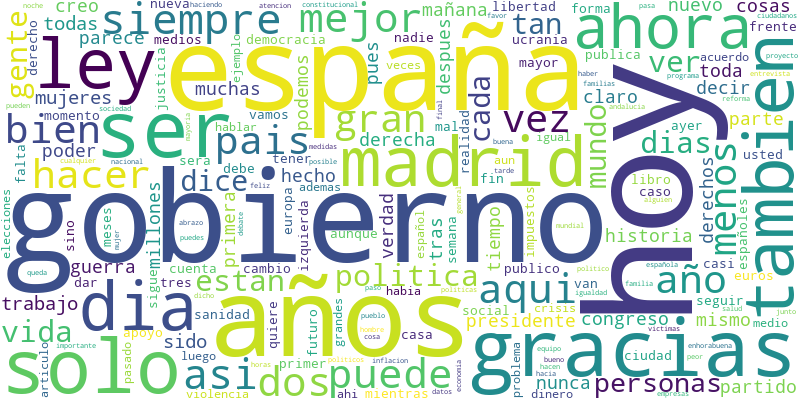
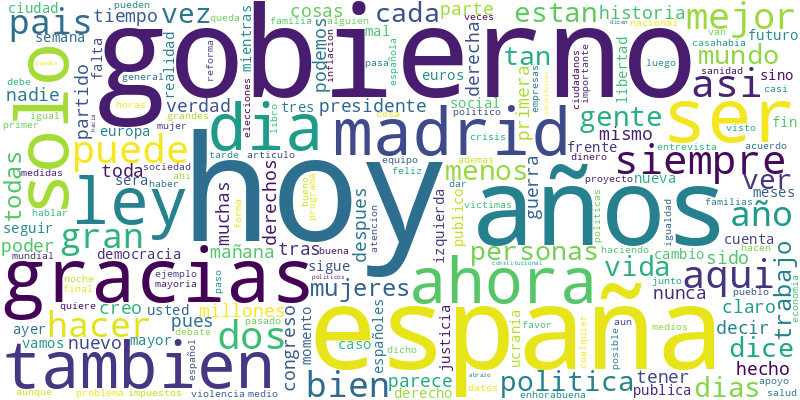
feat: add data loading and preprocessing functions, enhance class distribution analysis, and include visualizations

diff --git a/main.py b/main.py
@@ -21,9 +21,10 @@ from collections import Counter
 import matplotlib.pyplot as plt
 from wordcloud import WordCloud
 from nltk.corpus import stopwords as sw
-from init import xtrain, ytrain, xtest, ytest, xvalidation, yvalidation
+from init import get_data_splits
 from stopwords import stopwords
-
+import matplotlib.pyplot as plt
+import seaborn as sns
 
 
 def load_data(file_path: str) -> pd.DataFrame:
@@ -39,9 +40,6 @@ def load_data(file_path: str) -> pd.DataFrame:
     """
     data = pd.read_csv(file_path, header=0)
     return data
-
-# traindata = load_data('Datasets/EvaluationData/politicES_phase_2_train_public.csv')
-# ytrain = traindata.iloc[:, :]
 
 def print_data_info(ytrain: pd.DataFrame):
     """
@@ -69,44 +67,149 @@ def print_data_info(ytrain: pd.DataFrame):
     unique_users = ytrain.iloc[:, 0].unique()
     print("Unique users (labels) in training data:", len(unique_users))
 
-def analyze_class_distribution(ytrain: pd.DataFrame):
+def analyze_class_distribution(ytrain: pd.DataFrame, generate_plots: bool = False):
     """
-    Display how many examples belong to each class in the first column.
+    Display how many examples belong to each class in the training data (excluding user and tweet text columns).
+    
+    The training dataframe contains these headers:
+
+    +-----------------------+----------------------------------+
+    | Column                | Description                      |
+    +=======================+==================================+
+    | label                 | user identifier/label            |
+    +-----------------------+----------------------------------+
+    | gender                | gender classification            |
+    +-----------------------+----------------------------------+
+    | profession            | professional category            |
+    +-----------------------+----------------------------------+
+    | ideology_binary       | binary ideology classification   |
+    +-----------------------+----------------------------------+
+    | ideology_multiclass   | multi-class ideology             |
+    |                       | classification                   |
+    +-----------------------+----------------------------------+
+    | tweet                 | tweet text content               |
+    +-----------------------+----------------------------------+
+
+    The distribution of the training dataset is shown in the plot generated when
+    ``generate_plots`` is set to ``True``.
+
+    .. image:: _static/class_distribution.png
+        :alt: Class distribution plot
+        :width: 600px
 
     Args:
-        ytrain (pd.DataFrame): Training split whose first column contains labels.
+        ytrain (pd.DataFrame): Training split whose columns contain labels.
+        generate_plots (bool): Whether to generate a bar plot for class distribution, and save it as PNG.
 
     Returns:
         None
     """
-    class_counts = ytrain.iloc[:, 0].value_counts()
-    class_counts_unique = class_counts.nunique()
+    # Ensure ytrain is a DataFrame
+    if isinstance(ytrain, pd.Series):
+        ytrain = ytrain.to_frame()
 
-    if class_counts_unique == 1:
-        print("All classes have the same number of samples.")
-        print(f"Each class has {class_counts.iloc[0]} samples.")
-    else:
-        print("Class distribution in training data:")
-        # Group consecutive classes with same count
-        prev_count = None
-        start_cls = None
-        
-        for cls, count in class_counts.items():
-            if count != prev_count:
-                if prev_count is not None:
-                    if start_cls == prev_cls:
-                        print(f"  Classes {start_cls}: {prev_count} samples")
-                    else:
-                        print(f"  Classes {start_cls} to {prev_cls}: {prev_count} samples")
-                start_cls = cls
-                prev_count = count
-            prev_cls = cls
-        
-        # Print the last group
-        if start_cls == prev_cls:
-            print(f"  Classes {start_cls}: {prev_count} samples")
-        else:
-            print(f"  Classes {start_cls} to {prev_cls}: {prev_count} samples")
+    label_columns = ytrain.columns[:]
+
+    for col in label_columns:
+        class_counts = ytrain[col].value_counts().sort_index()
+        print(f"Class distribution for '{col}':")
+        for class_label, count in class_counts.items():
+            print(f"  Class '{class_label}': {count} examples")
+
+    if generate_plots:
+        # Generate a single bar plot for all label columns.
+        # Create separate groups for each label column with spacing
+        sns.set_theme(style="whitegrid")
+
+        df = (
+            ytrain[label_columns]
+            .melt(var_name="group", value_name="label")
+            .dropna()
+        )
+
+        counts = (
+            df.groupby(["group", "label"], sort=False)
+            .size()
+            .reset_index(name="count")
+            .reset_index(drop=True)
+        )
+
+        gap = 2.0
+        bar_w = 0.85
+        palette = dict(zip(label_columns, sns.color_palette("tab10", n_colors=len(label_columns))))
+
+        xticks = []
+        xticklabels = []
+        group_centers = {}
+
+        start = 0.0
+        fig, ax = plt.subplots(figsize=(14, 6))
+
+        for group in label_columns:
+            sub = counts[counts["group"] == group].reset_index(drop=True)
+            n = len(sub)
+            if n == 0:
+                continue
+
+            xs = start + np.arange(n)
+            ax.bar(xs, sub["count"].to_numpy(), width=bar_w, color=palette[group])
+
+            # per-bar tick labels
+            xticks.extend(xs.tolist())
+            xticklabels.extend(sub["label"].astype(str).tolist())
+
+            # count labels above bars
+            for x, c in zip(xs, sub["count"].to_numpy()):
+                ax.annotate(
+                    f"{int(c):,}",
+                    (x, c),
+                    xytext=(0, 3),
+                    textcoords="offset points",
+                    ha="center",
+                    va="bottom",
+                    fontsize=9,
+                )
+
+            group_centers[group] = float(xs.mean())
+
+            if group != label_columns[-1]:
+                ax.axvline(xs[-1] + 0.5 + gap / 2, color="0.85", lw=1)
+
+            start = xs[-1] + 1 + gap
+
+        # Axis formatting (bar labels)
+        ax.set_xticks(xticks)
+        ax.set_xticklabels(xticklabels, rotation=25, ha="right")
+        ax.set_xlabel("")
+        ax.set_ylabel("Number of Examples")
+        ax.set_title("Class Distribution Across Label Columns")
+
+        # Second bottom axis for group names (avoids overlap)
+        ax_group = ax.twiny()
+        ax_group.set_xlim(ax.get_xlim())
+
+        ax_group.xaxis.set_ticks_position("bottom")
+        ax_group.xaxis.set_label_position("bottom")
+
+        # push group labels below the per-bar labels
+        ax_group.spines["bottom"].set_position(("outward", 55))
+        ax_group.spines["top"].set_visible(False)
+        ax_group.spines["bottom"].set_visible(False)  # hide extra line
+
+        centers = [group_centers[g] for g in label_columns if g in group_centers]
+        labels = [g for g in label_columns if g in group_centers]
+        ax_group.set_xticks(centers)
+        ax_group.set_xticklabels(labels, fontweight="bold")
+        ax_group.tick_params(axis="x", length=0, pad=2)
+
+        plt.subplots_adjust(bottom=0.22)
+
+        plt.tight_layout()
+        plt.savefig("class_distribution.png", dpi=200, bbox_inches="tight")
+        plt.show()
+
+
+
 
 def preserve_letters(text: str, letters: list) -> str:
     """
@@ -136,7 +239,7 @@ def preserve_letters(text: str, letters: list) -> str:
         text = text.replace(v, k)
     return text
 
-def generate_wordcloud(ytrain: pd.DataFrame):
+def generate_wordcloud(xtrain: pd.DataFrame):
     """
     Build a word cloud from the tweet column and print frequency diagnostics.
 
@@ -146,13 +249,13 @@ def generate_wordcloud(ytrain: pd.DataFrame):
     disinformation dataset.
 
     Args:
-        ytrain (pd.DataFrame): Dataset containing tweets in the last column.
+        xtrain (pd.DataFrame): Single-column dataframe with tweet texts.
 
     Returns:
         WordCloud: The generated word cloud object.
     """
     # Print most frequent words in the tweets, word cloud and examples by class
-    all_text = ' '.join(ytrain.iloc[:, -1].dropna().astype(str).tolist())
+    all_text = ' '.join(xtrain.dropna().astype(str).tolist())
     words = all_text.lower().split()
     # Remove punctuation from words
     tokens = preserve_letters(all_text.lower(), ['ñ', 'Ñ'])
@@ -203,16 +306,17 @@ def generate_wordcloud(ytrain: pd.DataFrame):
     return wordcloud
 
 if __name__ == "__main__":
+    xtrain, ytrain, *_ = get_data_splits()
     print(f"{'-' * 35}")
-    analyze_class_distribution(ytrain)
+    analyze_class_distribution(ytrain, generate_plots=True)
     print(f"{'-' * 35}")
     # Print text length statistics (from tweets column, which corresponds to the last column)
-    text_lengths = ytrain.iloc[:, -1].dropna().apply(len)
+    text_lengths = ytrain.dropna().apply(len)
     print("Text length statistics:")
     print(f"  Minimum length: {text_lengths.min()}")
     print(f"  Maximum length: {text_lengths.max()}")
     print(f"  Average length: {text_lengths.mean():.2f}")
     print(f"  Median length: {text_lengths.median()}")
     print(f"{'-' * 35}")
-    wordcloud = generate_wordcloud(ytrain)
+    wordcloud = generate_wordcloud(xtrain)
     wordcloud.to_file("wordcloud.png")

diff --git a/init.py b/init.py
@@ -1,9 +1,19 @@
+"""
+Initialization module for data loading and preprocessing. This module exposes general functions that are used
+throughout the project to load the dataset, separate features and labels, and divide the data into training,
+validation, and test sets.
+"""
+
 from pandas import pandas as pd
+from sklearn.model_selection import train_test_split
+
+X_train, y_train, X_test, y_test, X_val, y_val = None, None, None, None, None, None
 
 def load_data(file_path: str) -> pd.DataFrame:
     """Loads the dataset from a CSV file.
     
     Main function to load the dataset from a CSV file. It assumes the first row contains headers.
+    The xtrain data consists on the tweets, while ytrain contains the labels (e.g., 'gender', 'ideology', etc.).
 
     Args:
         file_path (str): Path to the CSV file.
@@ -13,6 +23,61 @@ def load_data(file_path: str) -> pd.DataFrame:
     """
     data = pd.read_csv(file_path, header=0)
     return data
+
+def divide_train_val_test(data: pd.DataFrame, train_size: float = 0.7, val_size: float = 0.15, test_size: float = 0.15):
+    '''
+    Divides the dataset into training, validation, and test sets.
+    Train = 70%, Validation = 15%, Test = 15%
+    Args:
+        data (pd.DataFrame): The dataset to be divided.
+        train_size (float): Proportion of the dataset to include in the training set.
+        val_size (float): Proportion of the dataset to include in the validation set.
+        test_size (float): Proportion of the dataset to include in the test set.
+    '''
+    train, temp = train_test_split(data, test_size=(val_size + test_size), random_state=42)
+    val, test = train_test_split(temp, test_size=test_size/(val_size + test_size), random_state=42)
+    return train, val, test
+
+def separate_x_y_vectors(data: pd.DataFrame):
+    '''
+    Separates features and labels from the dataset.
+    
+    Args:
+        data (pd.DataFrame): The dataset.
+    '''
+    X = data['tweet']
+    y = data.iloc[:, 1:-1]
+    return X, y
+
+def get_data_splits(number_of_samples=None):
+    '''
+    Loads the dataset and prepares the training, validation, and test splits. If already cached, it loads from cache. If `number_of_samples` 
+    is provided, it returns only that many samples from the training set.
+
+    Args:
+        number_of_samples (int, optional): Number of samples to return from the training set. If None, returns all samples.
+
+    Returns:
+        xtrain, ytrain, xvalidation, yvalidation, xtest, ytest
+    '''
+    global X_train, y_train, X_test, y_test, X_val, y_val
+
+    if X_train is not None:
+        if number_of_samples is not None:
+            return X_train[:number_of_samples], y_train[:number_of_samples], X_val, y_val, X_test, y_test
+
+    path = "Datasets/EvaluationData/politicES_phase_2_train_public.csv"
+    data = load_data(path)
+    
+    train_data, val_data, test_data = divide_train_val_test(data)
+    X_train, y_train = separate_x_y_vectors(train_data)
+    X_val, y_val = separate_x_y_vectors(val_data)
+    X_test, y_test = separate_x_y_vectors(test_data)
+
+    if number_of_samples is not None:
+        return X_train[:number_of_samples], y_train[:number_of_samples], X_val, y_val, X_test, y_test
+
+    return X_train, y_train, X_val, y_val, X_test, y_test
 
 label_name = 'gender'  # 'gender', 'ideology', etc.
 

diff --git a/docs/source/conf.py b/docs/source/conf.py
@@ -36,6 +36,8 @@ autodoc_mock_imports = [
     "pandas",
     "numpy",
     "sklearn",
+    "scipy",
+    "seaborn",
     "matplotlib",
     "wordcloud",
     "nltk",
@@ -46,6 +48,8 @@ autodoc_mock_imports = [
     "regex",
     "sentence_transformers",
     "gensim",
+    "TextVectorRepresentation",
+    "nn_pytorch",
 ]
 
 
@@ -79,3 +83,7 @@ intersphinx_mapping = {
 
 
 html_theme = "shibuya"
+
+# Ignore warnings about mocked imports so doctree builds stay clean when using
+# autodoc_mock_imports to avoid heavy ML dependencies during docs generation.
+suppress_warnings = ["autodoc.mocked_object"]
